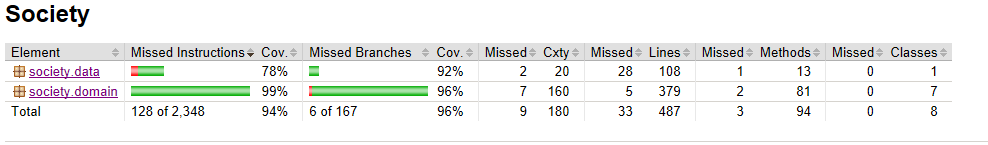
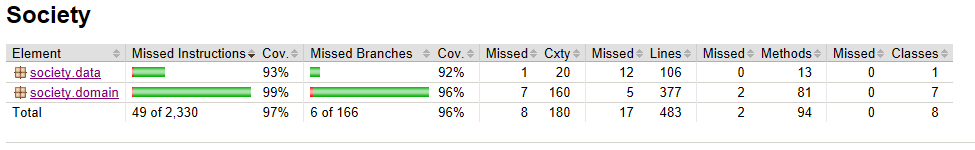
Vielä vähän lisää hienosäätöä

diff --git a/Society/src/main/java/society/domain/Logic.java b/Society/src/main/java/society/domain/Logic.java
@@ -2,9 +2,10 @@ package society.domain;
 
 import java.io.File;
 import java.util.Map;
-import java.util.Random;
 import society.data.FileOperator;
 import society.data.SaveOperator;
+import org.apache.commons.rng.UniformRandomProvider;
+import org.apache.commons.rng.simple.RandomSource;
 
 /**
  *
@@ -15,14 +16,14 @@ public class Logic {
     private Distributor hD;
     private ResourceManager resources;
     private int year;
-    private Random rng;
+    private UniformRandomProvider rng;
     private Multiplier mult;
     private double happiness;
     private SaveOperator operator;
 
     public Logic(Distributor dist) {
         this.hD = dist;
-        this.rng = new Random();
+        this.rng = RandomSource.create(RandomSource.WELL_1024_A);
         this.operator = new FileOperator(this);
         this.resources = new ResourceManager();
         this.resources.initializeResources();
@@ -31,7 +32,7 @@ public class Logic {
 
     public Logic(Distributor dist, File file) {
         this.hD = dist;
-        this.rng = new Random();
+        this.rng = RandomSource.create(RandomSource.WELL_1024_A);
         this.operator = new FileOperator(this, file);
         this.resources = new ResourceManager();
         this.resources.initializeResources();
@@ -200,12 +201,10 @@ public class Logic {
     public void createFirstWorkerUnits() {
         int amount = this.operator.getStartingHumans();
         for (int i = 0; i < amount; i++) {
-            if (i < 8) {
-                this.hD.setWorkerUnitFactory(new Human("A-" + i, 20 + i, 10 + i), Factories.FARM);
-            } else if (i < 10) {
-                this.hD.addWorkerUnit(new Human("I-" + i, i * 2 - 5));
+            if (i < amount / 2) {
+                this.hD.setWorkerUnitFactory(new Human("A-" + i, 20 + rng.nextInt(20), 10 + i), Factories.FARM);
             } else {
-                this.hD.addWorkerUnit(new Human("X-" + i, 20));
+                this.hD.addWorkerUnit(new Human("A-" + i, 8 + this.rng.nextInt(60)));
             }
         }
         this.hD.sortByAge();

diff --git a/Society/src/main/java/society/domain/HumanDistributor.java b/Society/src/main/java/society/domain/HumanDistributor.java
@@ -11,8 +11,9 @@ import java.util.Collections;
 import java.util.Comparator;
 import java.util.HashMap;
 import java.util.Map;
-import java.util.Random;
-import society.domain.*;
+import org.apache.commons.rng.UniformRandomProvider;
+import org.apache.commons.rng.simple.RandomSource;
+
 
 /**
  *
@@ -106,7 +107,7 @@ public class HumanDistributor implements Distributor {
      */
     public void makeBabies(double foodProd) {
         int amountOfMothers = amountOfReproducablePeople();
-        Random rng = new Random();
+        UniformRandomProvider rng = RandomSource.create(RandomSource.WELL_1024_A);
         double babiesValue = rng.nextInt(Math.max(1, (int) Math.log(amountOfMothers)) * 3);
         if (foodProd < 0.0) {
             babiesValue /= 2;
@@ -199,7 +200,7 @@ public class HumanDistributor implements Distributor {
         List<WorkerUnit> toBeKilled = new ArrayList();
         for (WorkerUnit h : this.list) {
             h.growOlder();
-            Random r = new Random();
+            UniformRandomProvider r = RandomSource.create(RandomSource.WELL_1024_A);
             if (r.nextInt(20) + h.getAge() > 100) {
                 toBeKilled.add(h);
                 this.workPlaces.remove(h);

diff --git a/dokumentointi/testaus.md b/dokumentointi/testaus.md
@@ -9,7 +9,7 @@ FileOperatorTest-luokka testaa Logic-luokan ja FileOperator-luokan yhteistoiminn
 
 ## Testauskattavuudesta
 <img src="https://github.com/PinguKoodi/otm-harjoitustyo/blob/master/dokumentointi/Grafiikat/Testauskattavuus.PNG"/>
-Testein rivikattavuus on kokonaisuudessaan 94%, ja haaraumakattavuus on 96%. Suurin testaamatta jäänyt metodi on FileOperator-luokan createNewConfigFile(), mutta sen toiminta on testattu käyttäjätasolta. Testeissä ollaan pyritty huomioimaan myös mahdollisia outoja tai erikoisia tilanteita, jotta ohjelman käytös olisi ennustettavaa.
+Testein rivikattavuus on kokonaisuudessaan 97%, ja haaraumakattavuus on 96%. Suurin testaamatta jäänyt metodi on FileOperator-luokan createNewConfigFile(), mutta sen toiminta on testattu käyttäjätasolta. Testeissä ollaan pyritty huomioimaan myös mahdollisia outoja tai erikoisia tilanteita, jotta ohjelman käytös olisi ennustettavaa.
 
 ## Järjestelmätestaus
 Ohjelmaa on testattu manuaalisesti erilaisissa tilanteissa, että se toteuttaa vaatimusmäärittelyn ja ei kaadu missään vaiheessa.
